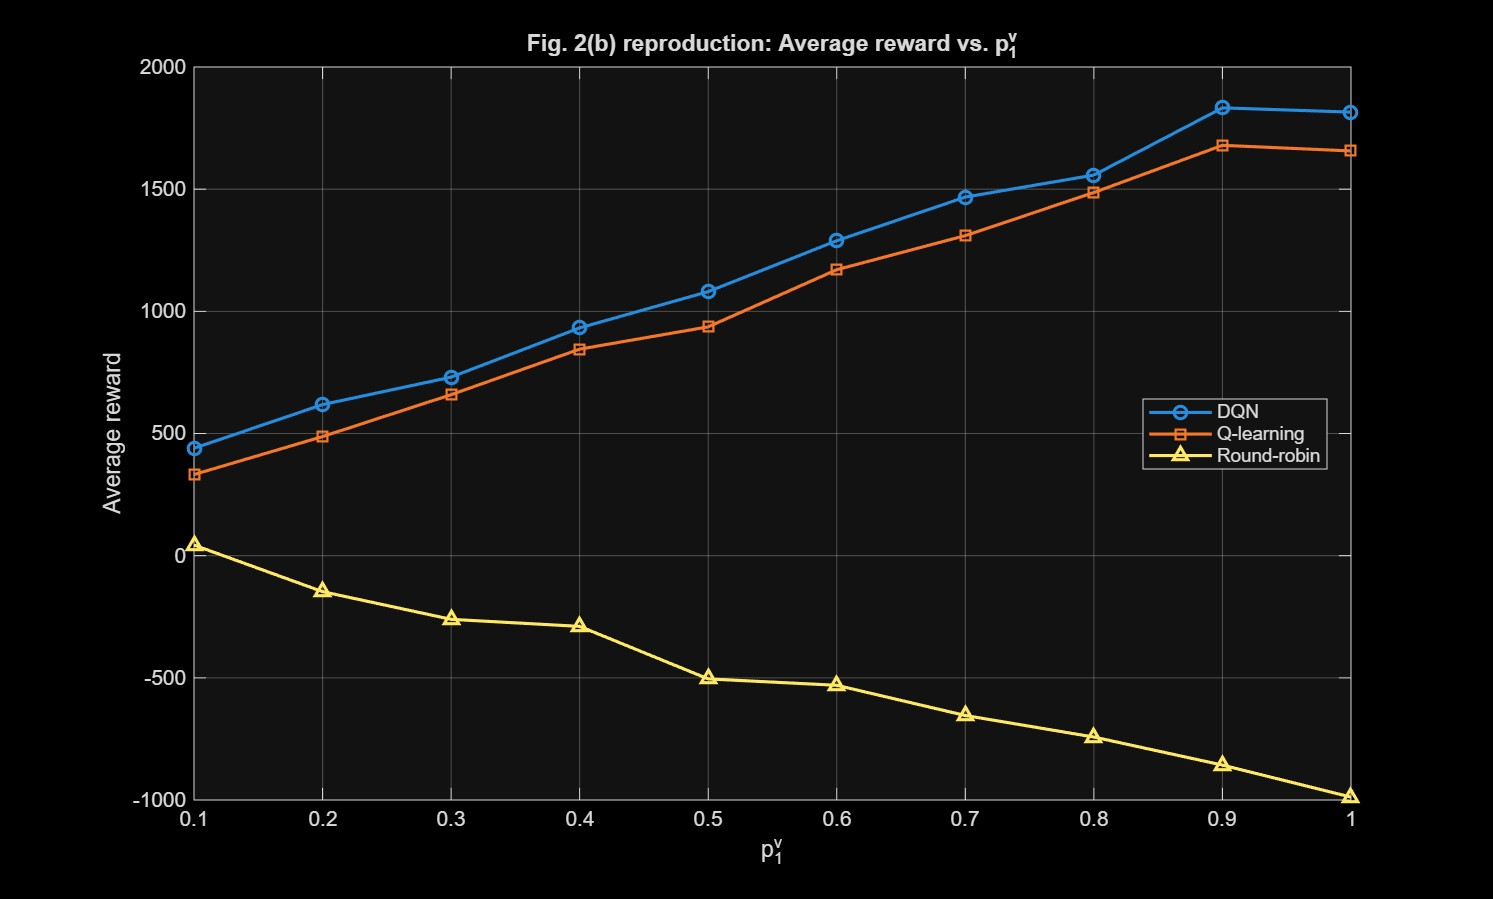
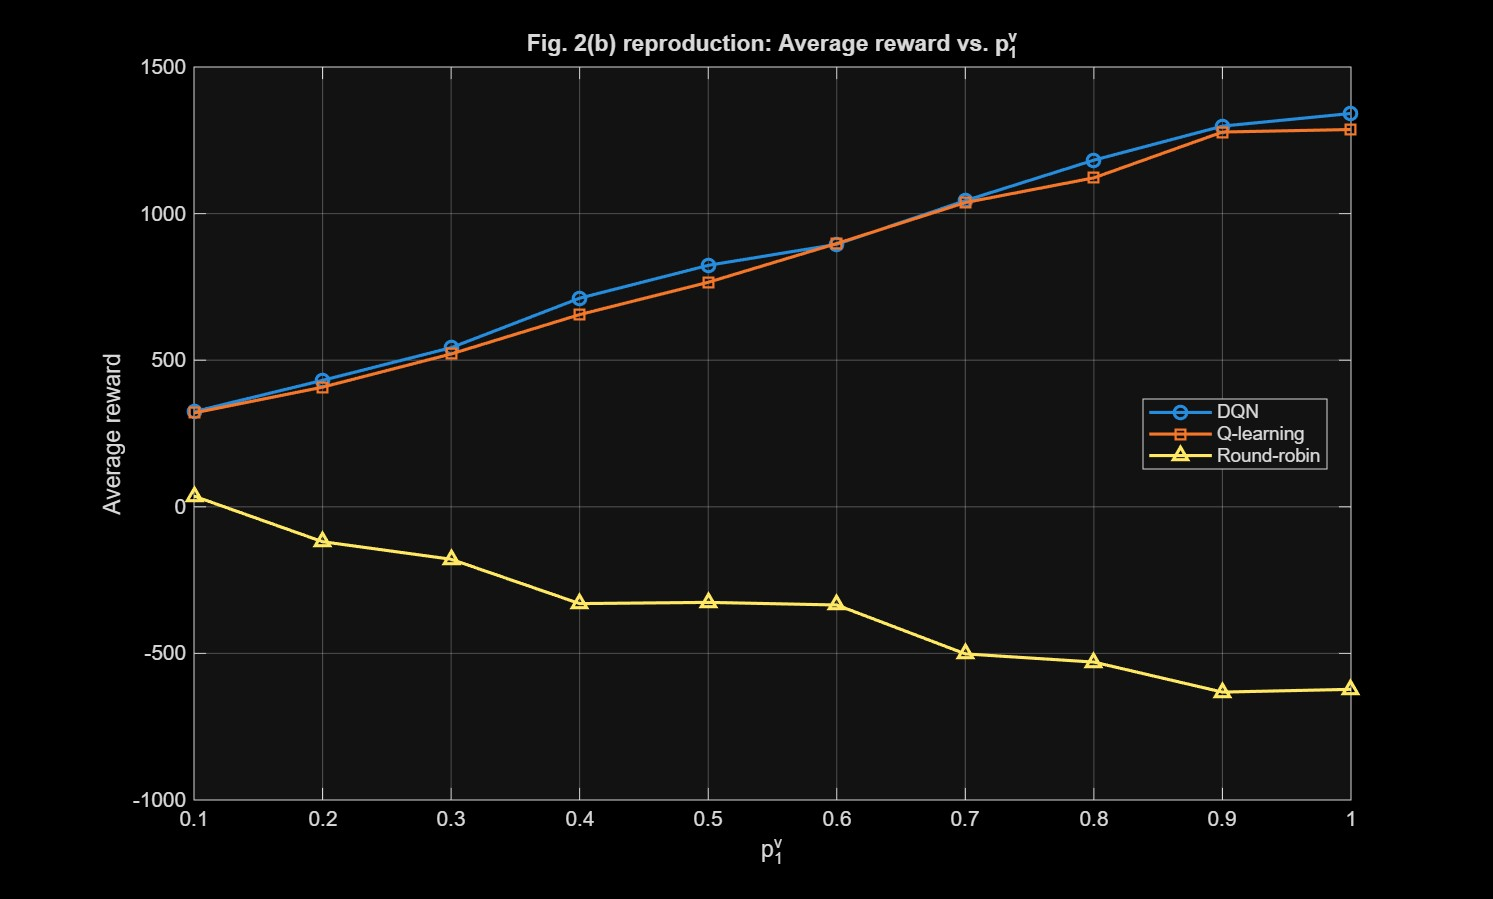
Tune T=220 and Q-learning alpha=0.02 in Fig 2(b) to match paper's reward scale at low p1_v

diff --git a/simulation 26-09/fig2b_simulation/fig2b_reward_vs_p1v.m b/simulation 26-09/fig2b_simulation/fig2b_reward_vs_p1v.m
@@ -4,7 +4,7 @@ p1v_values = 0.1:0.1:1;
 n = numel(p1v_values);
 
 train_episodes = 800;
-T = 300;
+T = 220;
 eval_episodes = 30;
 
 avg_r_dqn = zeros(n, 1);
@@ -17,7 +17,7 @@ for i = 1:n
 
     fprintf('p1_v = %.1f ... ', p.p1_v);
 
-    [Q, ~] = qlearning_train(p, train_episodes, T, 0.1);
+    [Q, ~] = qlearning_train(p, train_episodes, T, 0.02);
     avg_r_ql(i) = eval_qtable(Q, p, eval_episodes, T);
 
     opts = struct('seed', i);
